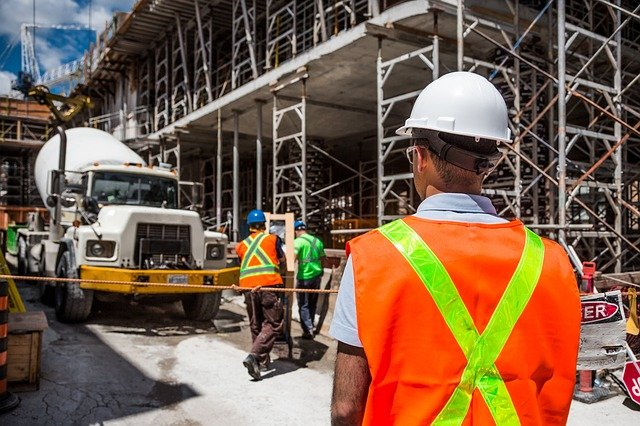
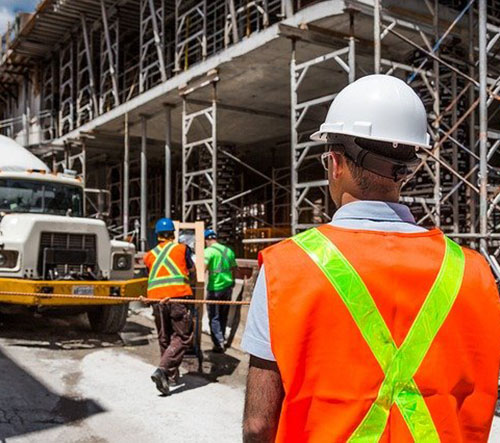
There was another problem

diff --git a/project.html b/project.html
@@ -225,7 +225,7 @@
             <div class="col-xl-4 col-lg-4 col-md-6">
               <div class="single-project single-project-bg-1">
                 <div class="project-info">
-                  <h6>Construction</h6>
+                  <span class="theme-span-text">Construction</span>
                   <h4>
                     <a href="project_details.html">Orchard House</a>
                   </h4>
@@ -238,7 +238,7 @@
             <div class="col-xl-4 col-lg-4 col-md-6">
               <div class="single-project single-project-bg-2">
                 <div class="project-info">
-                  <h6>Construction</h6>
+                  <span class="theme-span-text">Construction</span>
                   <h4>
                     <a href="project_details.html">Cardle Fort</a>
                   </h4>
@@ -251,7 +251,7 @@
             <div class="col-xl-4 col-lg-4 col-md-6">
               <div class="single-project single-project-bg-3">
                 <div class="project-info">
-                  <h6>Construction</h6>
+                  <span class="theme-span-text">Construction</span>
                   <h4>
                     <a href="project_details.html">Highway One</a>
                   </h4>
@@ -264,7 +264,7 @@
             <div class="col-xl-4 col-lg-4 col-md-6">
               <div class="single-project single-project-bg-4">
                 <div class="project-info">
-                  <h6>Construction</h6>
+                  <span class="theme-span-text">Construction</span>
                   <h4>
                     <a href="project_details.html">Railway Platform</a>
                   </h4>
@@ -277,7 +277,7 @@
             <div class="col-xl-4 col-lg-4 col-md-6">
               <div class="single-project single-project-bg-5">
                 <div class="project-info">
-                  <h6>Construction</h6>
+                  <span class="theme-span-text">Construction</span>
                   <h4>
                     <a href="project_details.html">Orchard House</a>
                   </h4>
@@ -290,7 +290,7 @@
             <div class="col-xl-4 col-lg-4 col-md-6">
               <div class="single-project single-project-bg-6">
                 <div class="project-info">
-                  <h6>Construction</h6>
+                  <span class="theme-span-text">Construction</span>
                   <h4>
                     <a href="project_details.html">Cardle Fort</a>
                   </h4>
@@ -303,7 +303,7 @@
             <div class="col-xl-4 col-lg-4 col-md-6">
               <div class="single-project single-project-bg-7">
                 <div class="project-info">
-                  <h6>Construction</h6>
+                  <span class="theme-span-text">Construction</span>
                   <h4>
                     <a href="project_details.html">Highway One</a>
                   </h4>
@@ -316,7 +316,7 @@
             <div class="col-xl-4 col-lg-4 col-md-6">
               <div class="single-project single-project-bg-8">
                 <div class="project-info">
-                  <h6>Construction</h6>
+                  <span class="theme-span-text">Construction</span>
                   <h4>
                     <a href="project_details.html">Railway Platform</a>
                   </h4>
@@ -329,7 +329,7 @@
             <div class="col-xl-4 col-lg-4 col-md-6">
               <div class="single-project single-project-bg-9">
                 <div class="project-info">
-                  <h6>Construction</h6>
+                  <span class="theme-span-text">Construction</span>
                   <h4>
                     <a href="project_details.html">Orchar House</a>
                   </h4>

diff --git a/project_details.html b/project_details.html
@@ -225,11 +225,7 @@
               <div class="service-details">
                 <!-- Service thumb -->
                 <div class="service-thumb mb-4">
-                  <img
-                    class="img-fluid"
-                    src="assets/images/work/work-5.jpg"
-                    alt=""
-                  />
+                  <img src="assets/images/work/work-5.jpg" alt="" />
                 </div>
 
                 <!-- Service details -->

diff --git a/assets/css/style.css b/assets/css/style.css
@@ -2415,6 +2415,10 @@ header {
   background: #fff;
 }
 
+.service-thumb img {
+  width: 100%;
+}
+
 .service-details-text-content h2,
 .service-details-text-content h3 {
   text-transform: uppercase;
